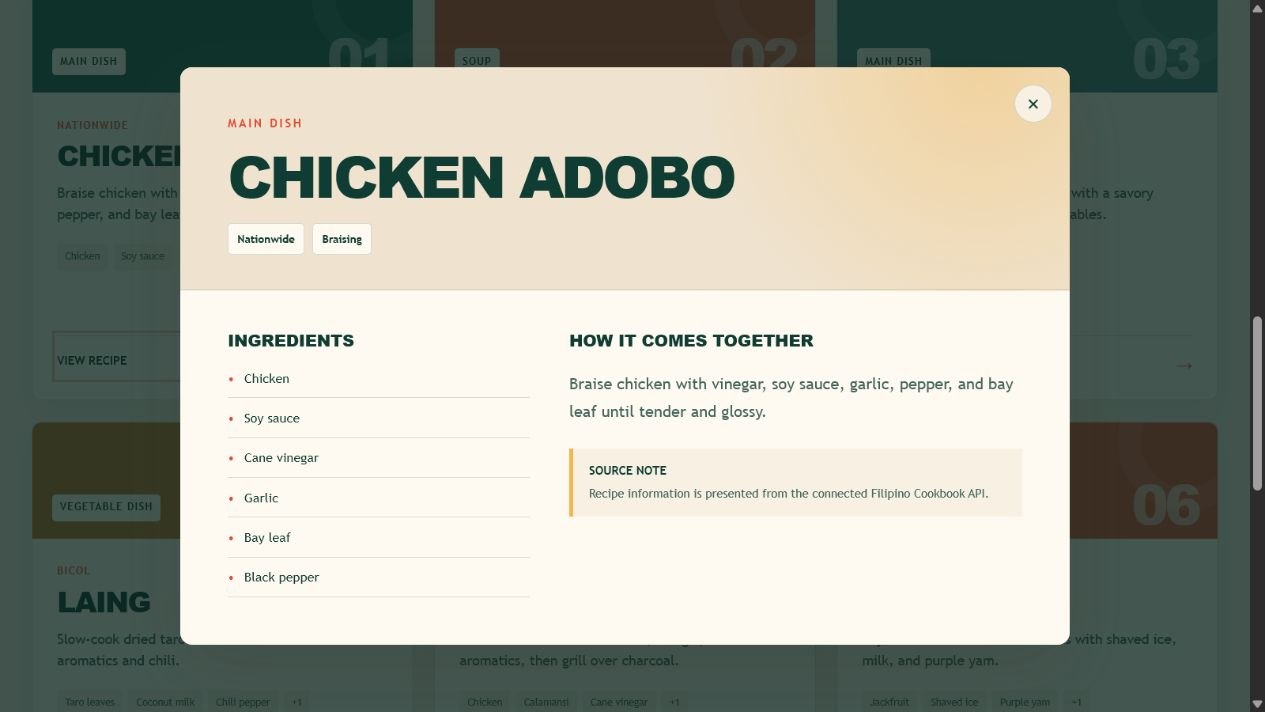
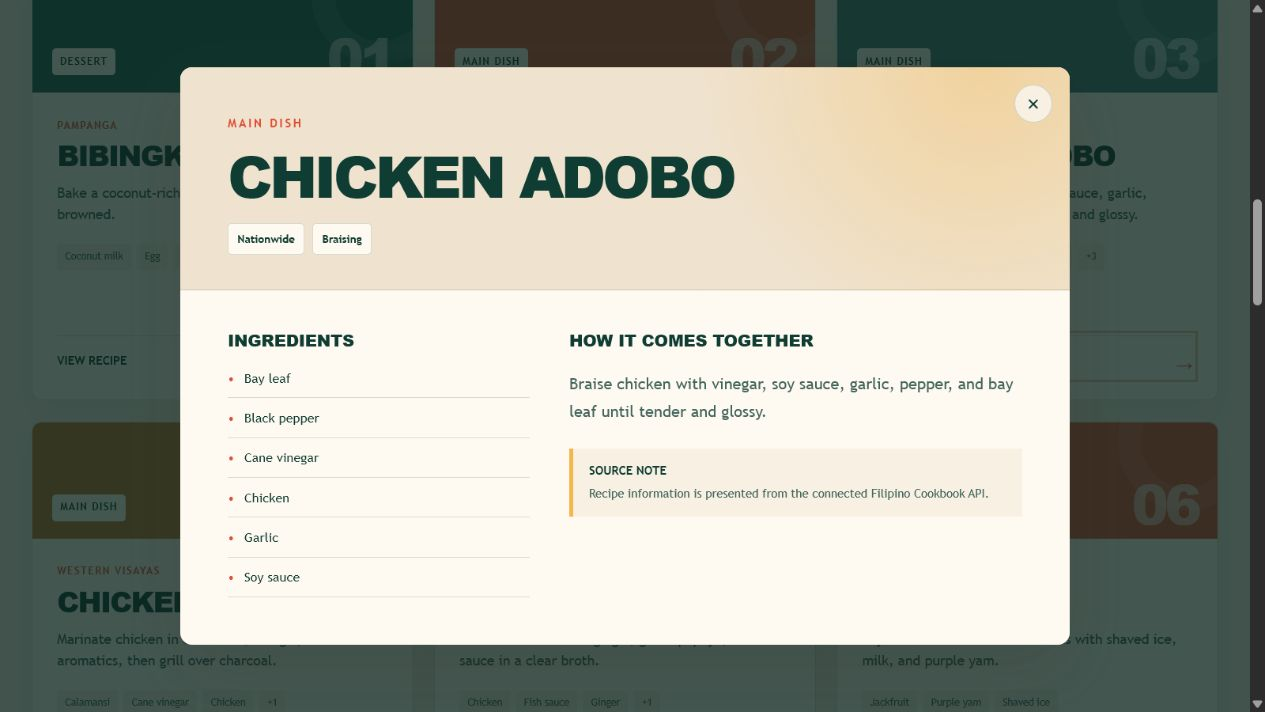
Finalize client verification and submission metadata

diff --git a/app/CookbookClient.tsx b/app/CookbookClient.tsx
@@ -118,16 +118,20 @@ export default function CookbookClient() {
   const [error, setError] = useState("");
 
   useEffect(() => {
-    const stored = window.sessionStorage.getItem("cookbook-api-settings");
-    if (!stored) return;
-    try {
-      const saved = JSON.parse(stored) as Partial<SourceSettings>;
-      const merged = { ...defaultSettings, ...saved, token: "" };
-      setSettings(merged);
-      setDraftSettings(merged);
-    } catch {
-      window.sessionStorage.removeItem("cookbook-api-settings");
-    }
+    const timer = window.setTimeout(() => {
+      const stored = window.sessionStorage.getItem("cookbook-api-settings");
+      if (!stored) return;
+      try {
+        const saved = JSON.parse(stored) as Partial<SourceSettings>;
+        const merged = { ...defaultSettings, ...saved, token: "" };
+        setSettings(merged);
+        setDraftSettings(merged);
+      } catch {
+        window.sessionStorage.removeItem("cookbook-api-settings");
+      }
+    }, 0);
+
+    return () => window.clearTimeout(timer);
   }, []);
 
   useEffect(() => {
@@ -703,4 +707,3 @@ export default function CookbookClient() {
     </main>
   );
 }
-

diff --git a/SUBMISSION_CHECKLIST.md b/SUBMISSION_CHECKLIST.md
@@ -2,13 +2,12 @@
 
 - [ ] Confirm the selected API belongs to a classmate, not the client developer.
 - [ ] Obtain the classmate’s permission and record their name and repository URL.
-- [ ] Replace every bracketed field in `README.md`.
-- [ ] Name the repository `filipino-cookbook-client-YOUR_SURNAME`.
+- [ ] Add the course/section and selected-classmate fields in `README.md`.
+- [ ] Create the public repository `filipino-cookbook-client-tangalin`.
 - [ ] Run the selected API and confirm its CORS policy allows the client.
-- [ ] Test with a valid token and an invalid token.
-- [ ] Verify the food list, filters, random action, and recipe details.
-- [ ] Confirm the token is not present in tracked files or screenshots.
-- [ ] Run `npm test`.
-- [ ] Refresh the three files in `screenshots/`.
+- [x] Test with a valid token and an invalid token against the verification API.
+- [x] Verify the food list, search, filters, random action, and recipe details.
+- [x] Confirm the token is not present in tracked files or screenshots.
+- [x] Run the production build, rendered-interface tests, and lint.
+- [x] Refresh and inspect the three files in `screenshots/`.
 - [ ] Clone the published repository into a fresh folder and follow the README.
-

diff --git a/README.md b/README.md
@@ -58,8 +58,8 @@ The client performs category, origin, and free-text filtering on the food list a
 1. Clone the client repository.
 
    ```bash
-   git clone https://github.com/YOUR_GITHUB_USERNAME/filipino-cookbook-client-YOUR_SURNAME.git
-   cd filipino-cookbook-client-YOUR_SURNAME
+   git clone https://github.com/Kurt14-eng/filipino-cookbook-client-tangalin.git
+   cd filipino-cookbook-client-tangalin
    ```
 
 2. Install dependencies.
@@ -142,9 +142,8 @@ For the final integration test:
 
 ## Developer Information
 
-- Student: **[YOUR FULL NAME]**
-- Course and section: **[YOUR COURSE AND SECTION]**
-- GitHub username: **[YOUR GITHUB USERNAME]**
-- Client repository: **https://github.com/YOUR_GITHUB_USERNAME/filipino-cookbook-client-YOUR_SURNAME**
-- Date completed: **2026-07-27**
-
+- Student: **KURT TANGALIN**
+- Course and section: **[ADD COURSE AND SECTION]**
+- GitHub username: **Kurt14-eng**
+- Client repository: **https://github.com/Kurt14-eng/filipino-cookbook-client-tangalin**
+- Date completed: **2026-07-31**
